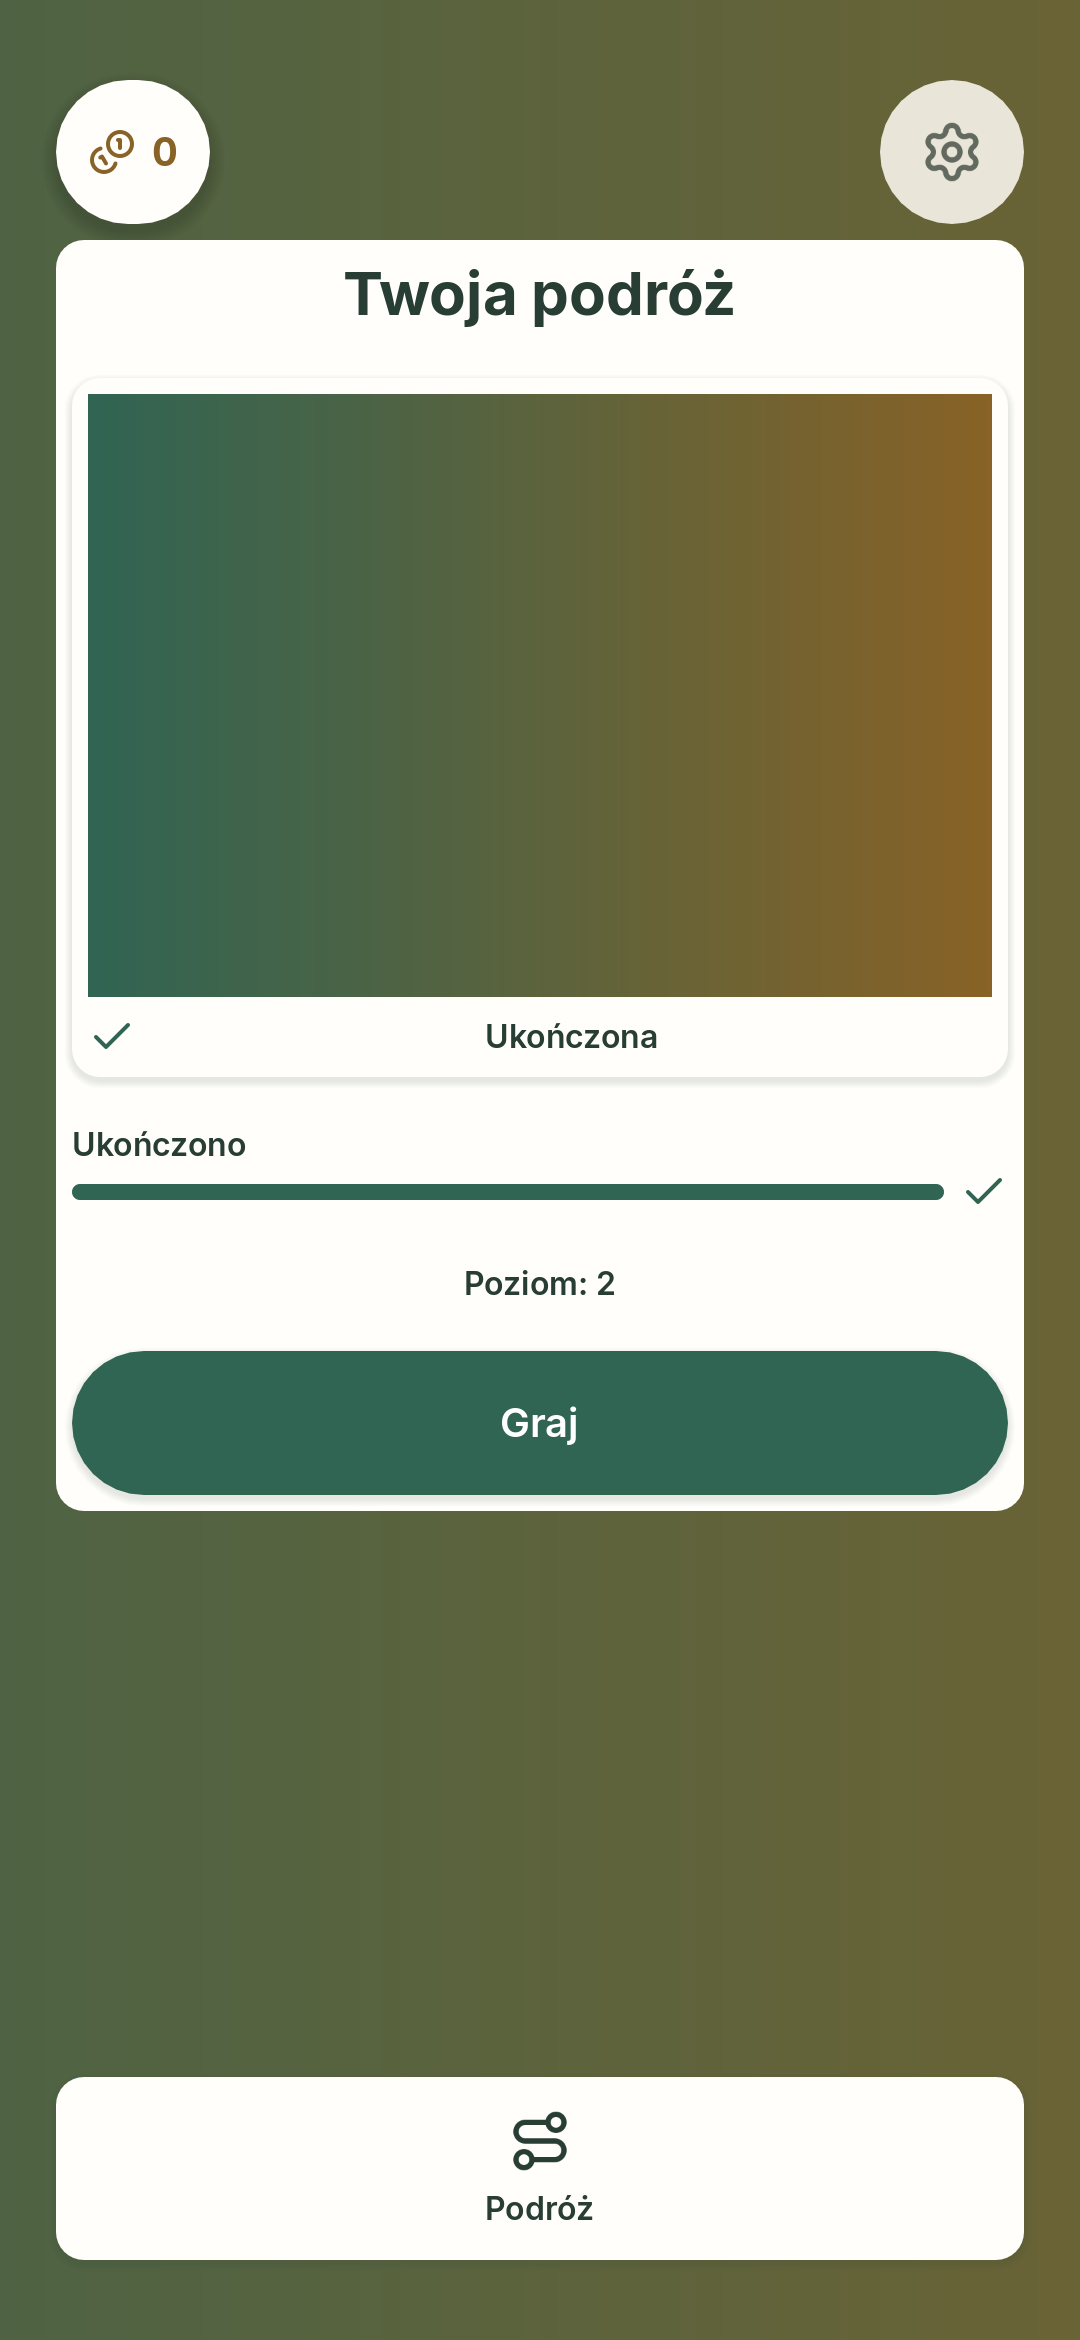
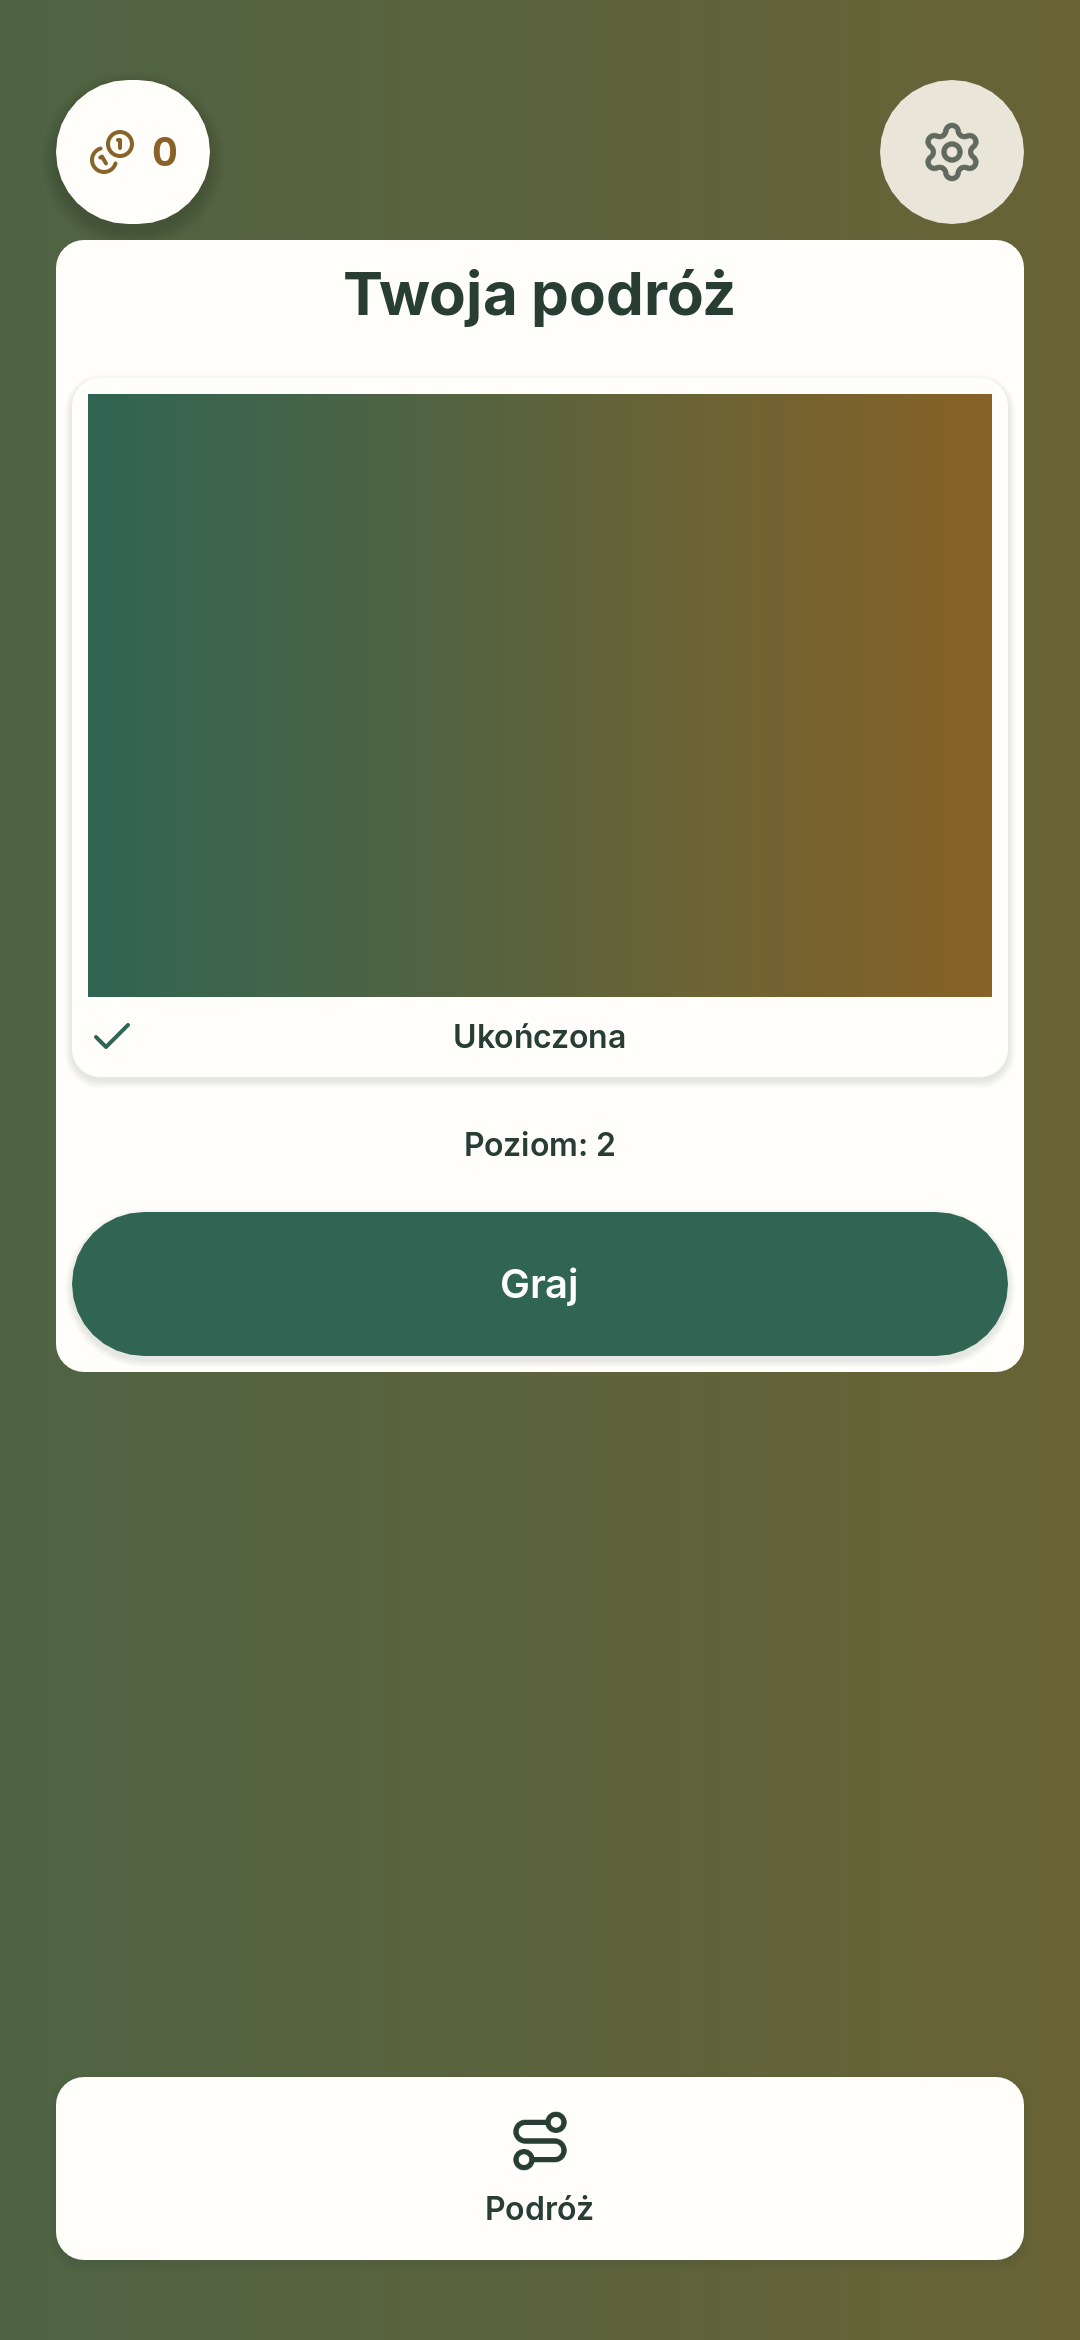
fix(home): show postcard completion once and center copy [T-0244]
Hide the Home progress bar at full pieces so the postcard stamp or the
Progress caption carries completion alone. Reserve a mirrored icon slot
in the full LocationPostcard row so the caption stays centred beside the
stamp or lock. Centre the Home Status caption like the other captions.
Recapture the complete and terminal Home states.

Changed region(s): [[0.0306, 0.4368, 0.9472, 0.6551]]

diff --git a/docs/qa/T-0244/README.md b/docs/qa/T-0244/README.md
@@ -22,11 +22,17 @@ pieces, and removes the enclosing surface shadow. Missing-art copy is shorter an
 promising a specific content pack. Settings remains disabled; Journey routes the merged screen.
 PR #171 was superseded by #172; this revision preserves #173/#174 on fresh main e3fe760.
 
+Review follow-up: completion is stated once. Home hides the progress bar at full pieces, so
+the postcard stamp (art) or the Progress caption (missing art) carries it. The full preset
+reserves a mirrored icon slot, so its caption stays centred beside the stamp or lock. The
+Status caption is centred like the other Home captions.
+
 ## Verification
 
-Godot 4.7.2 ed1daf0bf: 614/614 GUT tests pass, including all Home, Journey and Postcard cases.
-The two additional tests cover passive Home progress/copy/no writes and full/thumb styling
-across preset changes. Full make check and scope results are recorded in the PR.
+Godot 4.7.2 ed1daf0bf: 642/642 GUT tests pass on main 6757e6d, including all Home, Journey and
+Postcard cases. The additional tests cover passive Home progress/copy/no writes, the hidden bar
+at completion, full/thumb styling across preset changes and the centred full caption beside the
+stamp or lock. Full make check and scope results are recorded in the PR.
 Native Apple M3 OpenGL/Metal captures cover all 15 states below; their run log contains no
 errors or warnings. Reviewed REGULAR PL partial/missing-art and COMPACT PSEUDO HC130 against
 the reference: centered progress is legible, frame/shadow is lighter, and Play stays reachable.
